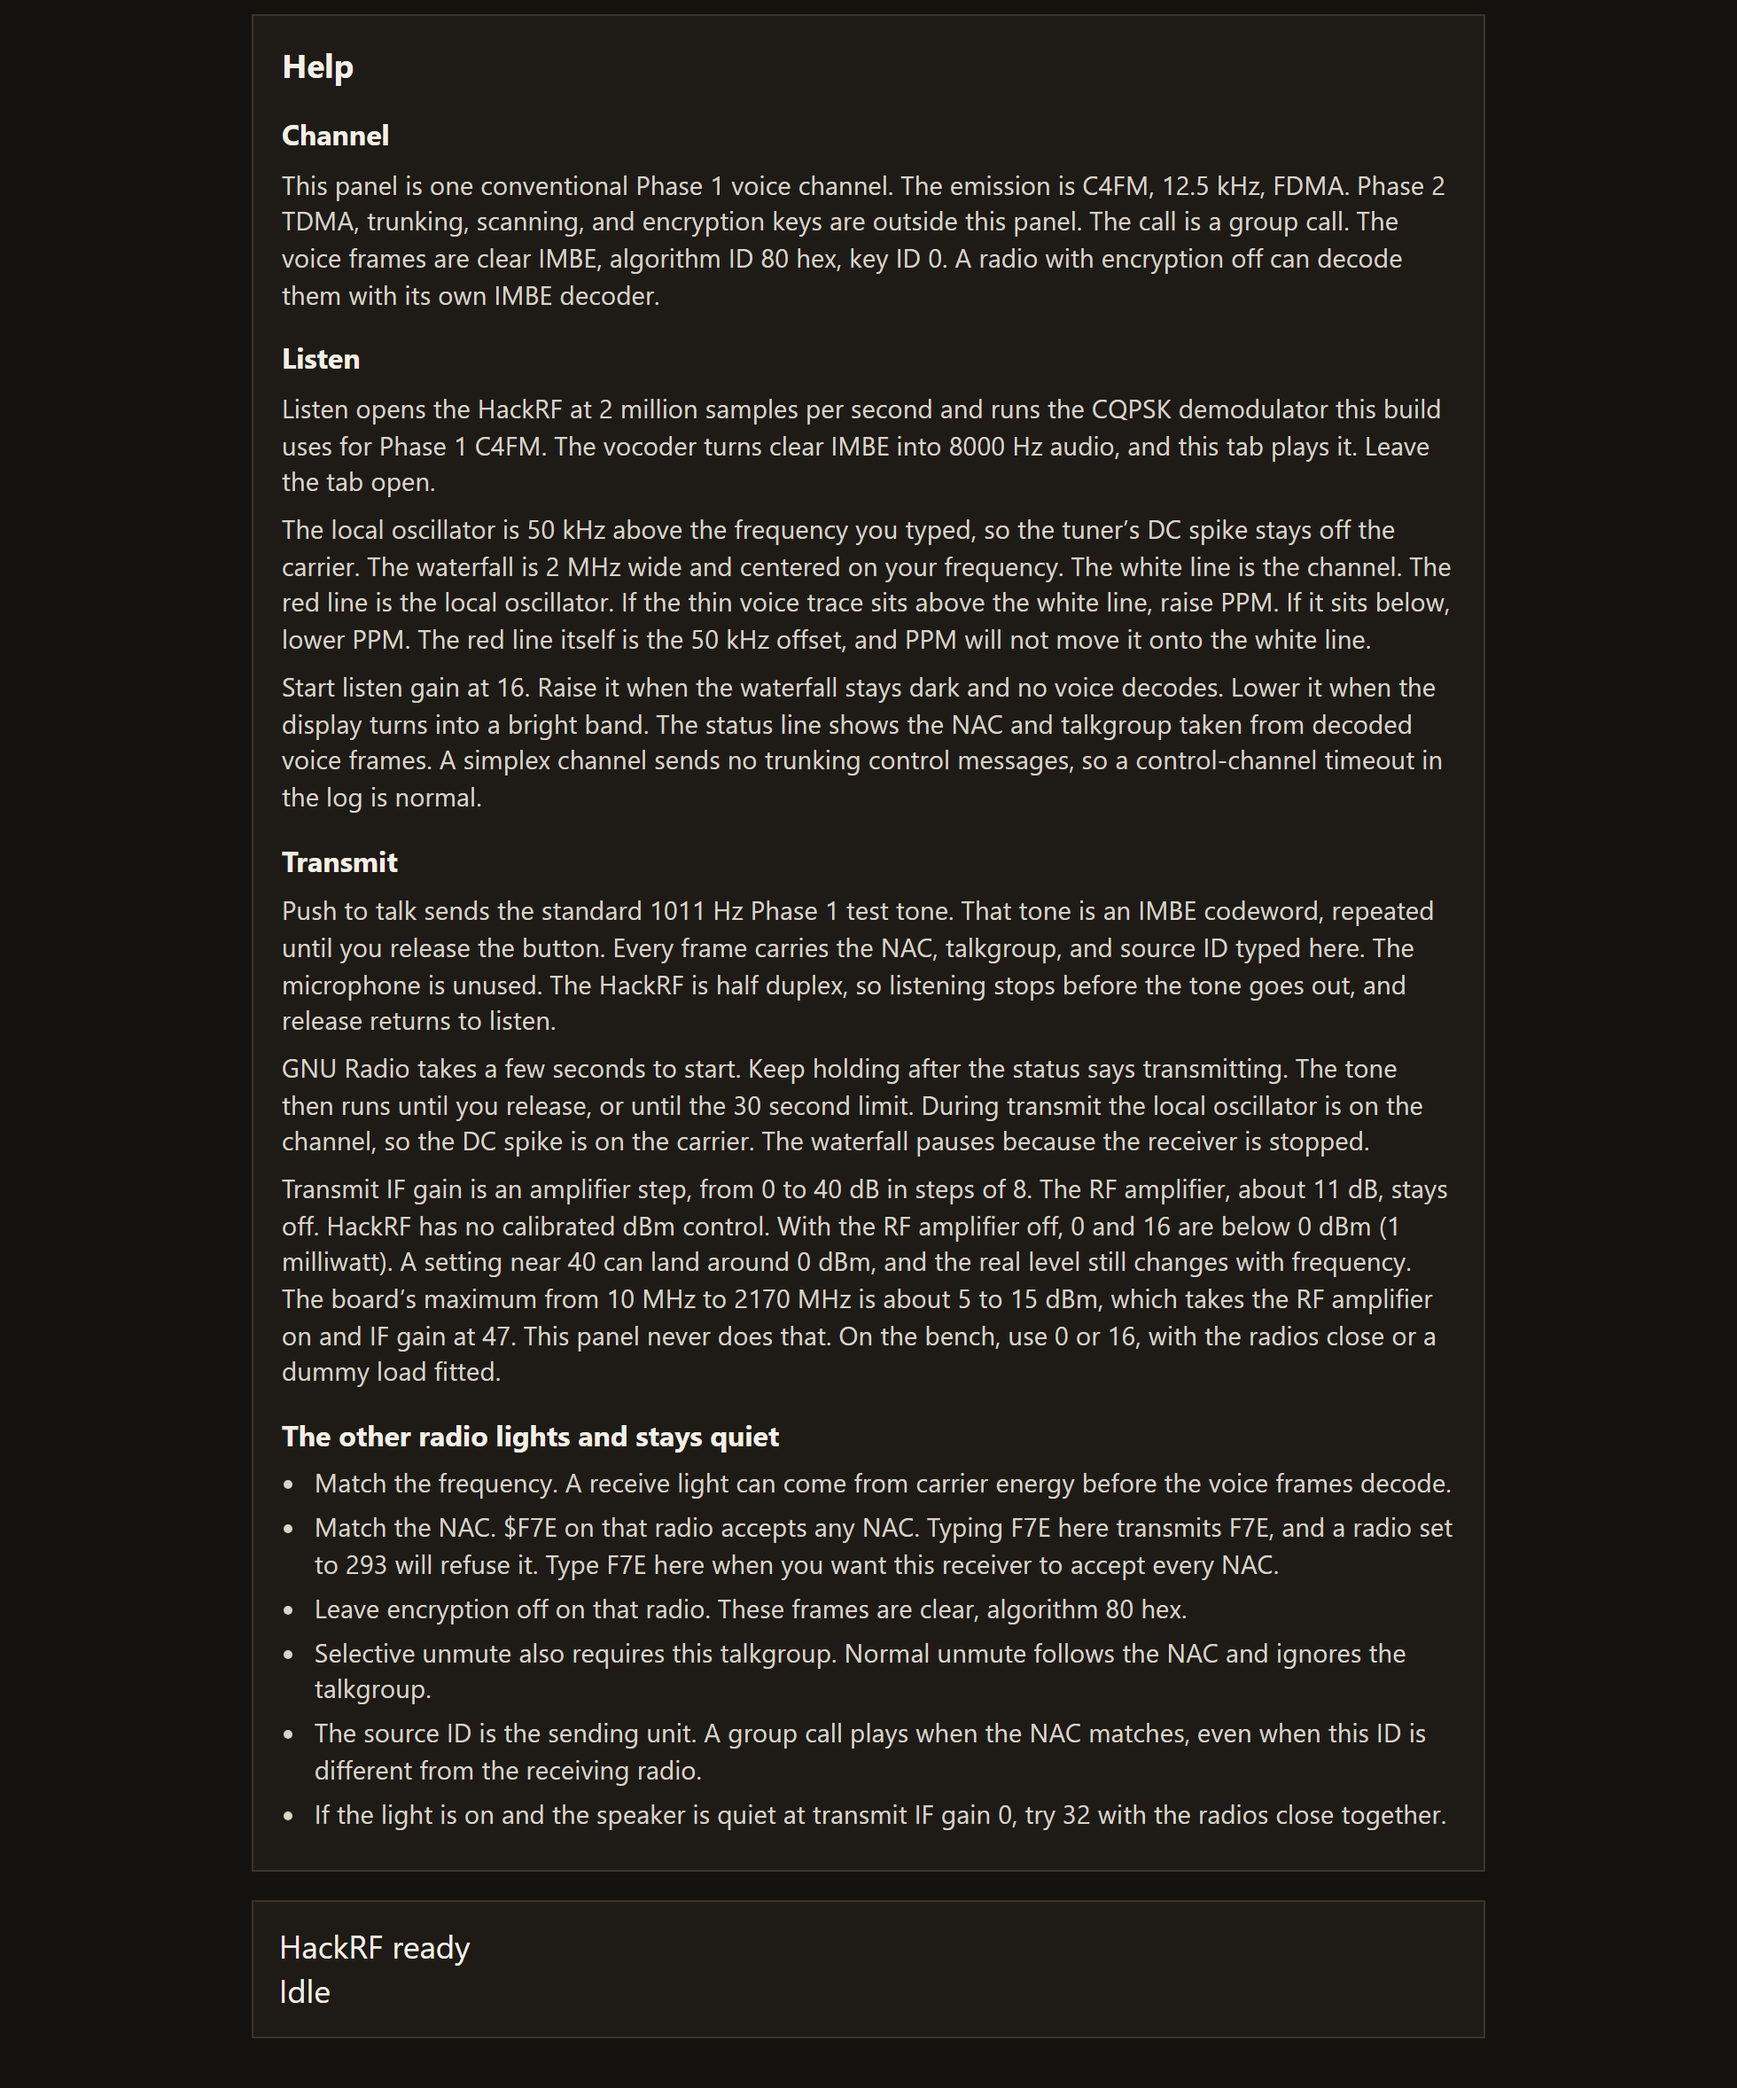
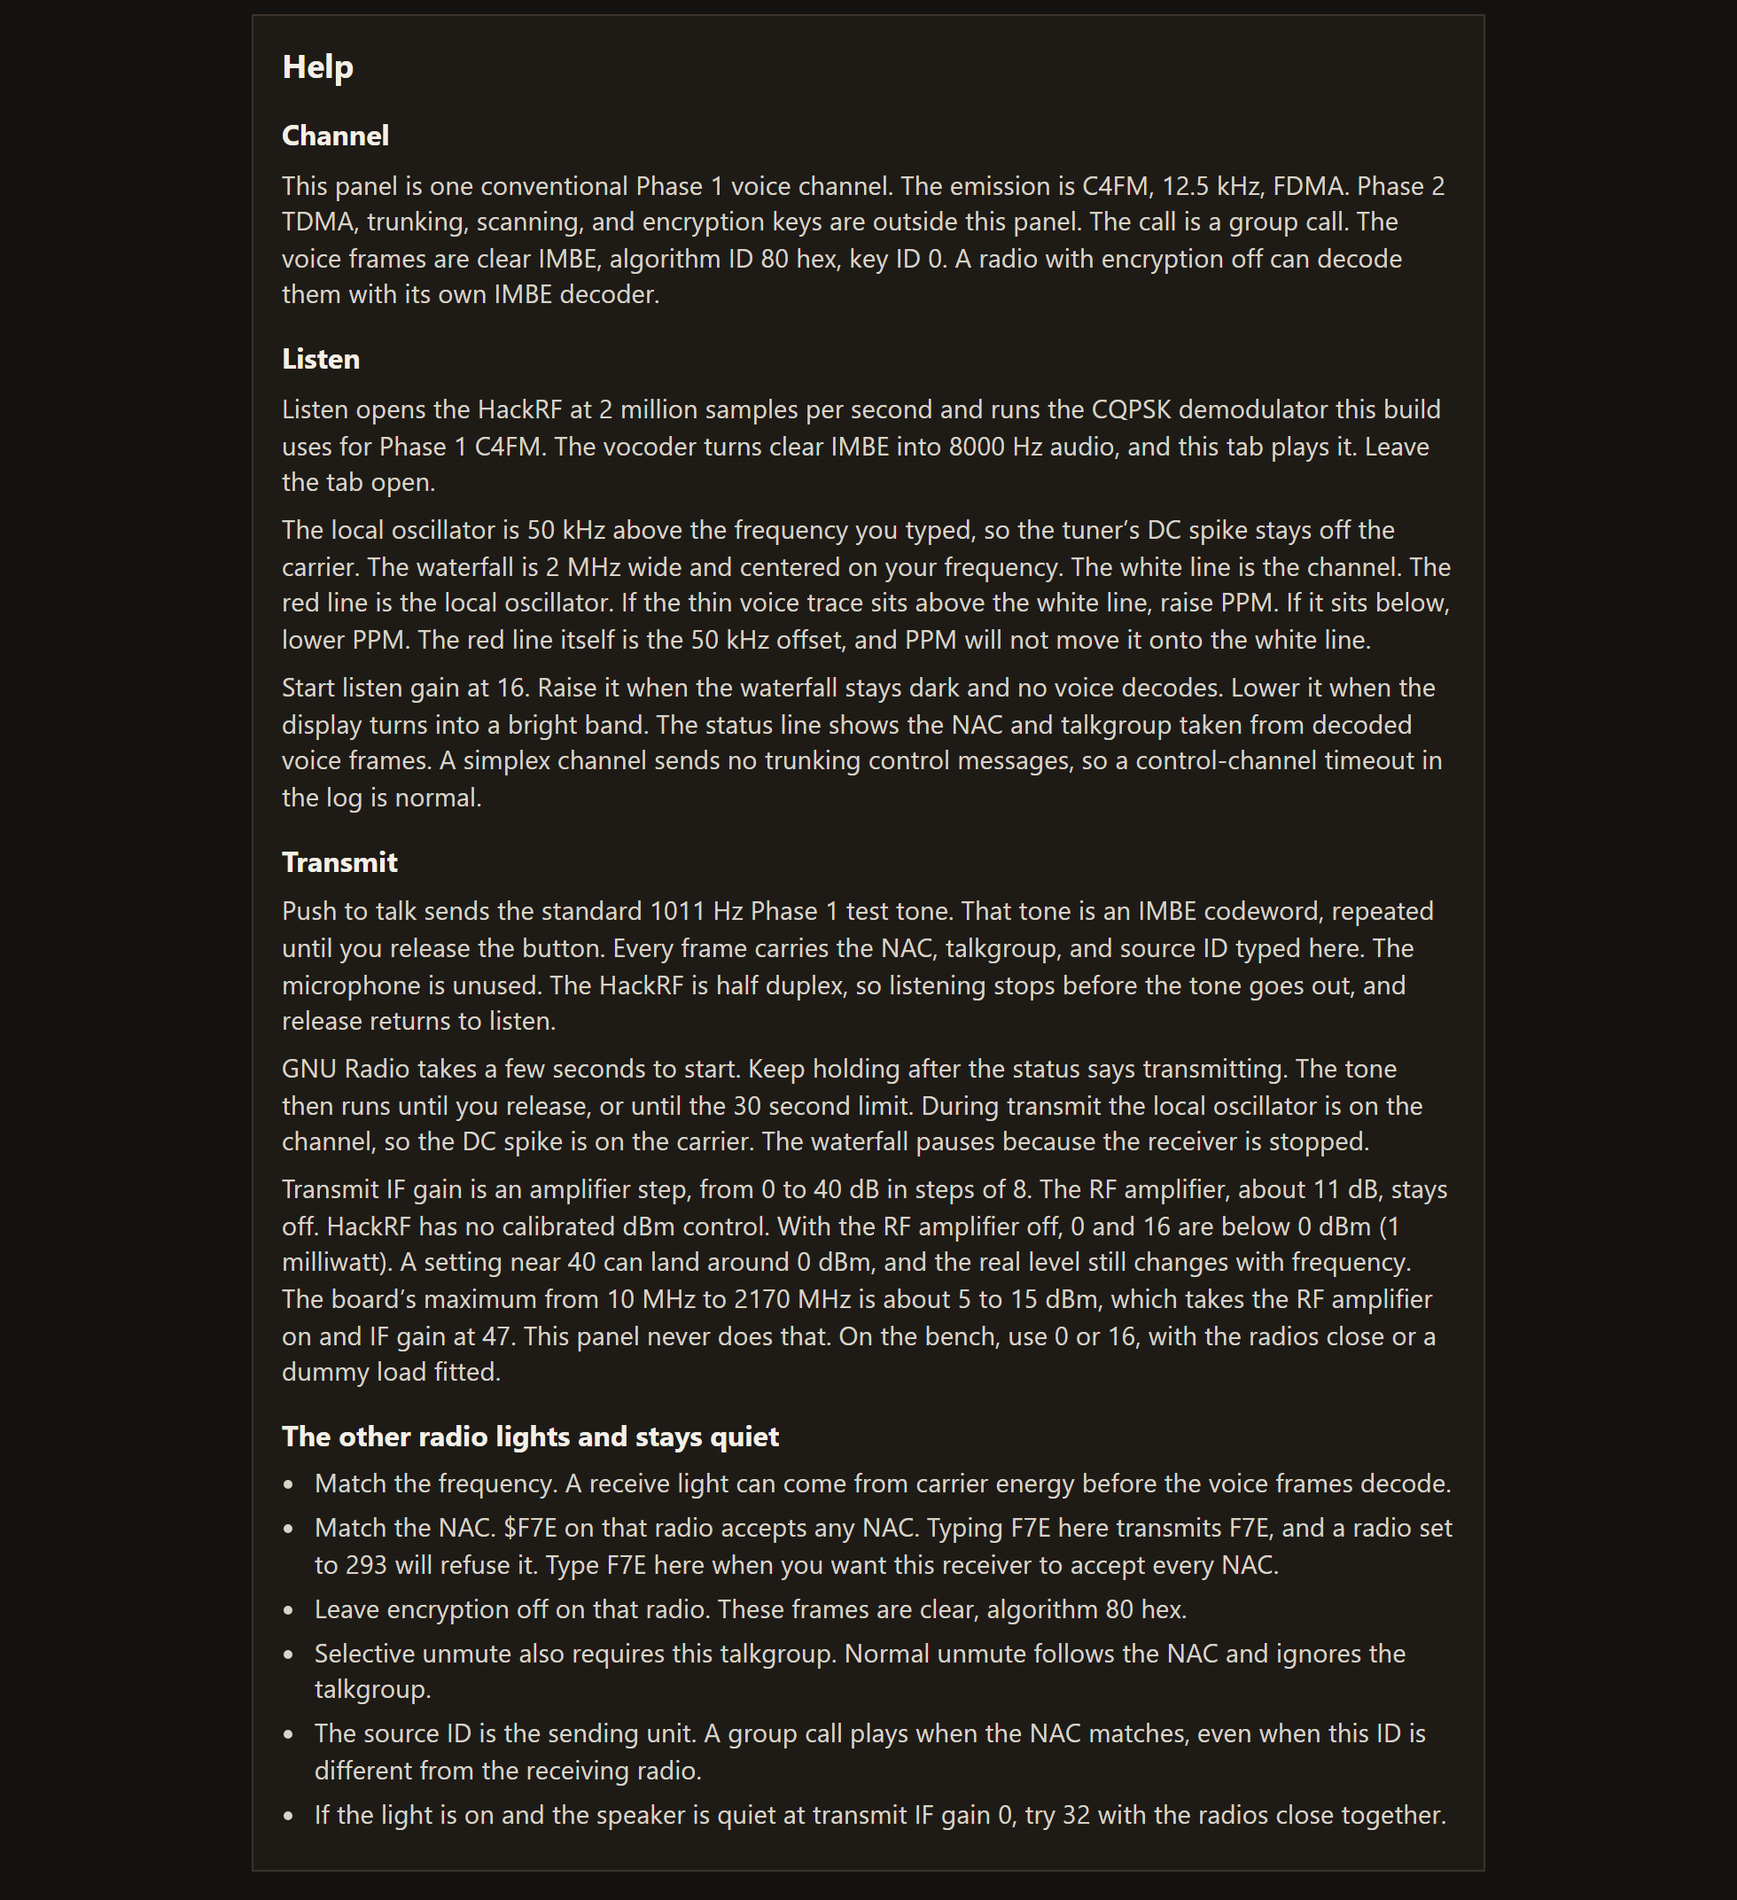
Put the status card above the waterfall.
While this page is receiving, the card says HackRF receiving instead of HackRF in use.

Changed region(s): [[0.1556, 0.0312, 0.8403, 0.9688]]

diff --git a/app/index.html b/app/index.html
@@ -95,6 +95,7 @@
       background: var(--card);
       border: 1px solid var(--line);
     }
+    #status.rx { border-color: var(--listen); }
     #status.tx { border-color: var(--tx); }
     #err { color: var(--bad); min-height: 1.4rem; }
     .help {
@@ -163,6 +164,7 @@
       </div>
       <p class="actionhelp">Listen plays clear voice in this browser. Click it again to stop. Push to talk stops listening and sends the test tone. Release it and listening returns. Stop goes idle and frees the HackRF.</p>
     </form>
+    <div id="status">Checking the HackRF…</div>
     <figure id="waterfall">
       <canvas id="wf" width="512" height="160"></canvas>
       <figcaption id="wfcap">White line: the frequency on this page. Red line: the HackRF tuner, 50 kHz higher, where the DC spike sits while listening. A Phase 1 signal is about 12.5 kHz wide, so it is a thin trace on the white line. The trace runs only while listening.</figcaption>
@@ -189,7 +191,6 @@
         <li>If the light is on and the speaker is quiet at transmit IF gain 0, try 32 with the radios close together.</li>
       </ul>
     </section>
-    <div id="status">Checking the HackRF…</div>
   </main>
   <script>
     const $ = (id) => document.getElementById(id);
@@ -235,11 +236,11 @@
 
     function paint(status) {
       const box = $("status");
-      box.className = status.mode === "tx" ? "tx" : "";
+      box.className = status.mode === "tx" ? "tx" : status.mode === "listen" ? "rx" : "";
       const device = {
         ready: "HackRF ready",
         missing: "HackRF not seen by Ubuntu. Start this page from Start-P25.ps1 so the USB device is attached.",
-        busy: "HackRF in use"
+        busy: status.mode === "tx" ? "HackRF transmitting" : "HackRF receiving"
       }[status.device] || status.device;
       const lines = [device, status.message || "Idle"];
       if (status.mode === "listen") {

diff --git a/README.md b/README.md
@@ -10,7 +10,7 @@ These pictures are the empty form. A frequency you type is saved on this compute
 
 ![jim-p25 controls and listening waterfall](docs/panel.png)
 
-Listen, push-to-talk, and Stop sit with the channel fields. The waterfall stays quiet until Listen is on. The white line is the channel. The red line is the tuner, 50 kHz higher.
+Listen, push-to-talk, and Stop sit with the channel fields. The status card is next, then the waterfall. The waterfall stays quiet until Listen is on. The white line is the channel. The red line is the tuner, 50 kHz higher.
 
 ![Help for the NAC, the gains, and a silent radio](docs/help.png)
 
